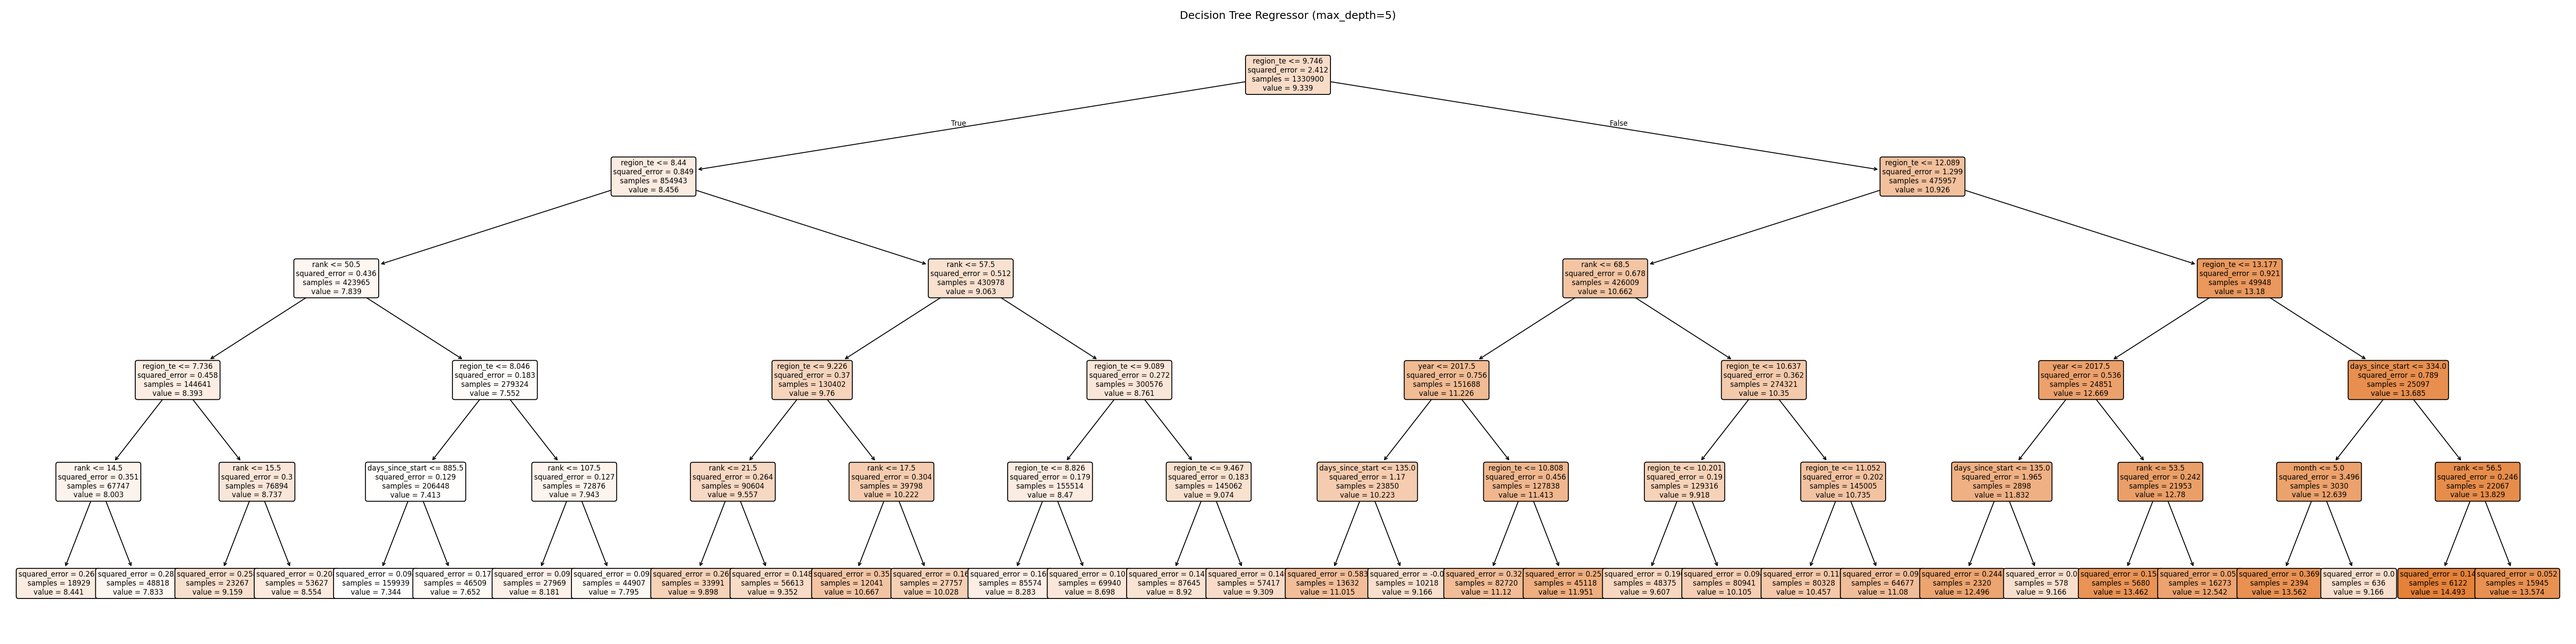
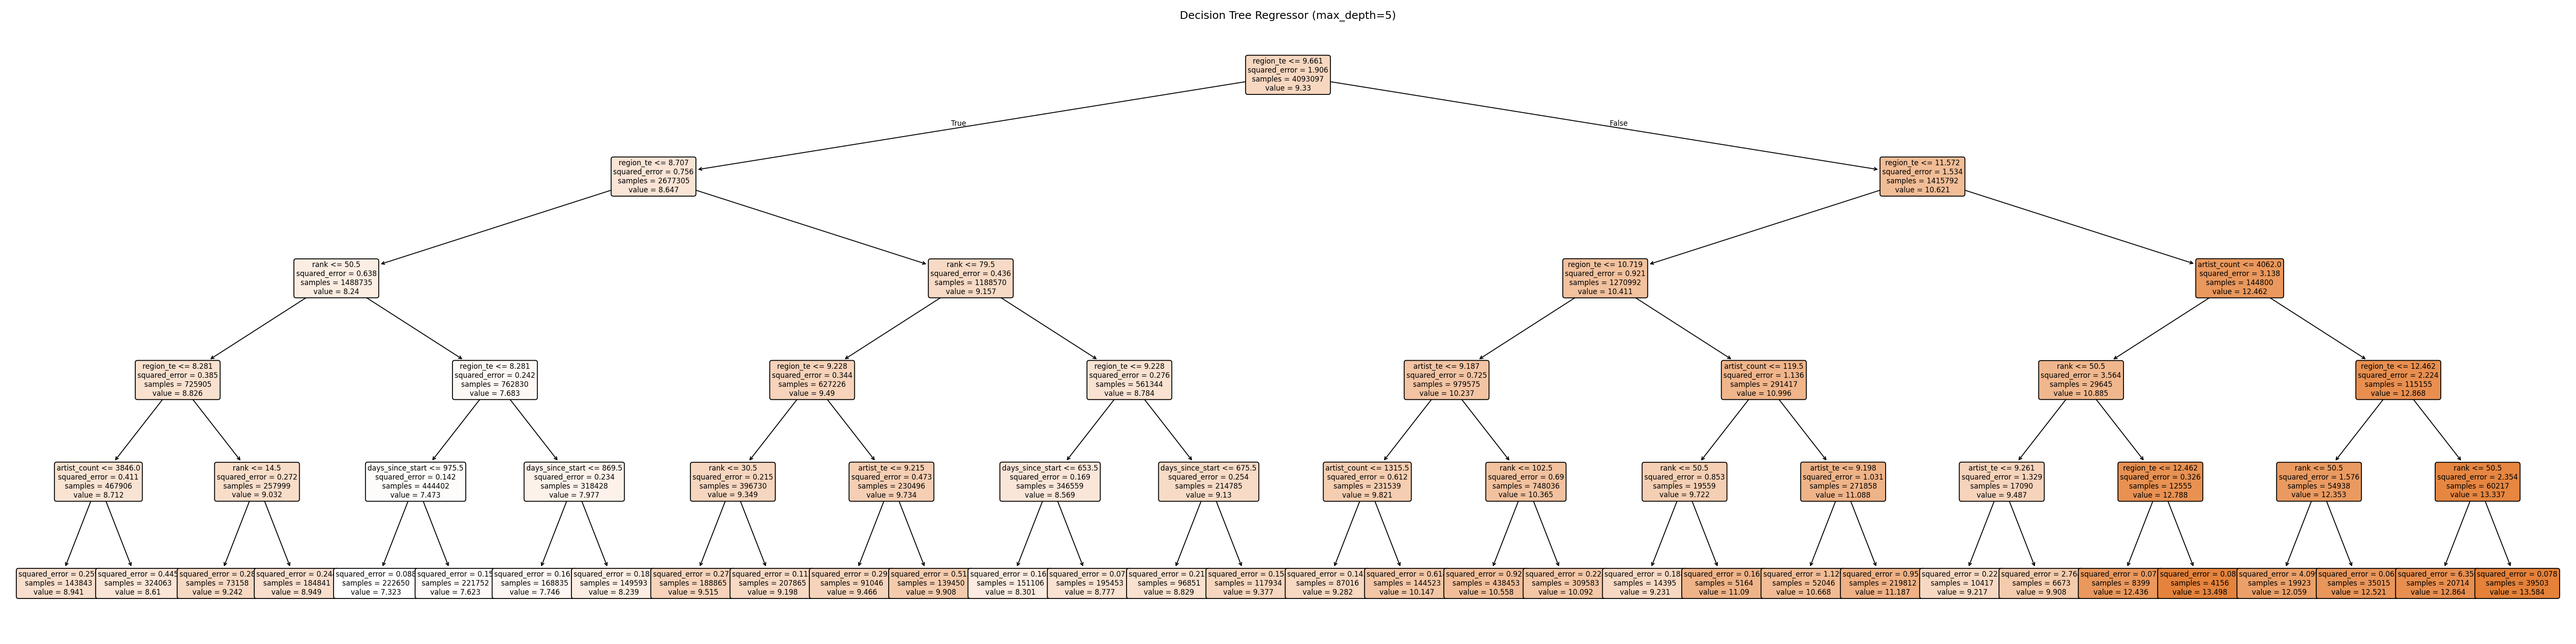
update gaussian, perceptron and adaboost

diff --git a/Classification_Experiment_4_GaussianNB.py b/Classification_Experiment_4_GaussianNB.py
@@ -4,7 +4,10 @@ import mlflow.sklearn
 from sklearn.naive_bayes import GaussianNB
 from sklearn.preprocessing import StandardScaler
 from sklearn.model_selection import GridSearchCV
-from sklearn.metrics import accuracy_score, classification_report, confusion_matrix
+from sklearn.metrics import (
+    accuracy_score, classification_report, confusion_matrix,
+    f1_score, precision_score, recall_score,
+)
 
 music = pd.read_csv("music_classification.csv", dtype={
     "rank": "int16",
@@ -22,14 +25,19 @@ music = pd.read_csv("music_classification.csv", dtype={
 
 print("music_classification.csv -> shape :", music.shape)
 
-#music = music.sample(frac=0.2, random_state=42).reset_index(drop=True)
-#print("After sampling -> shape :", music.shape)
+music = music.sample(frac=0.1, random_state=42).reset_index(drop=True)
+print("After sampling -> shape :", music.shape)
 
 train = music[music["year"] < 2021].copy()
 test  = music[music["year"] >= 2021].copy()
 
 y_train = train["is_hit"]
 y_test  = test["is_hit"]
+
+print(music["year"].value_counts().sort_index())
+print(f"\nTrain size: {len(train)} | Test size: {len(test)}")
+print(f"Train is_hit rate: {y_train.mean():.4f}")
+print(f"Test  is_hit rate: {y_test.mean():.4f}")
 
 global_mean = y_train.mean()
 
@@ -77,14 +85,25 @@ for exp in experiments:
         y_train_pred = gnb.predict(X_train_scaled)
         y_test_pred  = gnb.predict(X_test_scaled)
 
-        train_acc = accuracy_score(y_train, y_train_pred)
-        test_acc  = accuracy_score(y_test,  y_test_pred)
+        train_acc      = accuracy_score(y_train, y_train_pred)
+        test_acc       = accuracy_score(y_test,  y_test_pred)
+        test_f1        = f1_score(y_test, y_test_pred, zero_division=0)
+        test_precision = precision_score(y_test, y_test_pred, zero_division=0)
+        test_recall    = recall_score(y_test, y_test_pred, zero_division=0)
 
+        mlflow.log_metric("Accuracy",  test_acc)
+        mlflow.log_metric("F1",        test_f1)
+        mlflow.log_metric("Precision", test_precision)
+        mlflow.log_metric("Recall",    test_recall)
+        mlflow.log_metric("train_acc", train_acc)
         mlflow.log_text(classification_report(y_test, y_test_pred), "classification_report.txt")
 
         print(f"\n{exp['run_name']}")
         print(f"  Train Accuracy : {train_acc:.4f}")
         print(f"  Test  Accuracy : {test_acc:.4f}")
+        print(f"  F1             : {test_f1:.4f}")
+        print(f"  Precision      : {test_precision:.4f}")
+        print(f"  Recall         : {test_recall:.4f}")
         print("\nConfusion matrix:")
         print(confusion_matrix(y_test, y_test_pred))
         print("\nClassification report:")
@@ -101,8 +120,8 @@ grid = GridSearchCV(
     GaussianNB(),
     param_grid,
     cv=5,
-    scoring="accuracy",
-    n_jobs=-1,
+    scoring="f1",
+    n_jobs=1,
     verbose=1
 )
 
@@ -113,14 +132,25 @@ print(f"Best CV score:   {grid.best_score_:.4f}")
 
 with mlflow.start_run(run_name="GaussianNB - GridSearchCV"):
     best_model = grid.best_estimator_
-    y_pred = best_model.predict(X_test_scaled)
-    test_acc = accuracy_score(y_test, y_pred)
+    y_pred         = best_model.predict(X_test_scaled)
+    test_acc       = accuracy_score(y_test, y_pred)
+    test_f1        = f1_score(y_test, y_pred, zero_division=0)
+    test_precision = precision_score(y_test, y_pred, zero_division=0)
+    test_recall    = recall_score(y_test, y_pred, zero_division=0)
 
     mlflow.log_metric("best_cv_score", grid.best_score_)
+    mlflow.log_metric("Accuracy",      test_acc)
+    mlflow.log_metric("F1",            test_f1)
+    mlflow.log_metric("Precision",     test_precision)
+    mlflow.log_metric("Recall",        test_recall)
     mlflow.log_text(classification_report(y_test, y_pred), "classification_report.txt")
 
     print(f"\nGridSearchCV Best GaussianNB")
     print(f"  Test Accuracy : {test_acc:.4f}")
+    print(f"  F1            : {test_f1:.4f}")
+    print(f"  Precision     : {test_precision:.4f}")
+    print(f"  Recall        : {test_recall:.4f}")
+    print(f"  Best CV score : {grid.best_score_:.4f}")
     print(classification_report(y_test, y_pred))
 
 print("\nAll experiments completed!")

diff --git a/Classification_Experiment_5_Perceptron.py b/Classification_Experiment_5_Perceptron.py
@@ -3,7 +3,10 @@ import numpy as np
 import mlflow.sklearn
 from sklearn.linear_model import Perceptron
 from sklearn.preprocessing import StandardScaler
-from sklearn.metrics import accuracy_score, classification_report, confusion_matrix
+from sklearn.metrics import (
+    accuracy_score, classification_report, confusion_matrix,
+    f1_score, precision_score, recall_score,
+)
 
 music = pd.read_csv("music_classification.csv", dtype={
     "rank": "int16",
@@ -81,21 +84,30 @@ for exp in experiments:
         y_train_pred = perc.predict(X_train_scaled)
         y_test_pred  = perc.predict(X_test_scaled)
 
-        train_acc = accuracy_score(y_train, y_train_pred)
-        test_acc  = accuracy_score(y_test,  y_test_pred)
+        train_acc      = accuracy_score(y_train, y_train_pred)
+        test_acc       = accuracy_score(y_test,  y_test_pred)
+        test_f1        = f1_score(y_test, y_test_pred, zero_division=0)
+        test_precision = precision_score(y_test, y_test_pred, zero_division=0)
+        test_recall    = recall_score(y_test, y_test_pred, zero_division=0)
 
         mlflow.log_param("model",       "Perceptron")
         mlflow.log_param("max_iter",    exp["max_iter"])
         mlflow.log_param("eta0",        exp["eta0"])
         mlflow.log_param("split",       "time-based year<2021")
         mlflow.log_param("sample_frac", 0.2)
-        mlflow.log_metric("train_accuracy", train_acc)
-        mlflow.log_metric("test_accuracy",  test_acc)
+        mlflow.log_metric("Accuracy",   test_acc)
+        mlflow.log_metric("F1",         test_f1)
+        mlflow.log_metric("Precision",  test_precision)
+        mlflow.log_metric("Recall",     test_recall)
+        mlflow.log_metric("train_acc",  train_acc)
         mlflow.log_text(classification_report(y_test, y_test_pred), "classification_report.txt")
 
         print(f"\n{exp['run_name']}")
         print(f"  Train Accuracy : {train_acc:.4f}")
         print(f"  Test  Accuracy : {test_acc:.4f}")
+        print(f"  F1             : {test_f1:.4f}")
+        print(f"  Precision      : {test_precision:.4f}")
+        print(f"  Recall         : {test_recall:.4f}")
         print("\nConfusion matrix:")
         print(confusion_matrix(y_test, y_test_pred))
         print("\nClassification report:")

diff --git a/Classification_Experiment_8_AdaBoostClassifier.py b/Classification_Experiment_8_AdaBoostClassifier.py
@@ -4,7 +4,10 @@ import mlflow.sklearn
 from sklearn.ensemble import AdaBoostClassifier
 from sklearn.tree import DecisionTreeClassifier
 #from sklearn.preprocessing import StandardScaler
-from sklearn.metrics import accuracy_score, classification_report, confusion_matrix
+from sklearn.metrics import (
+    accuracy_score, classification_report, confusion_matrix,
+    f1_score, precision_score, recall_score,
+)
 
 music = pd.read_csv("music_classification.csv", dtype={
     "rank": "int16",
@@ -81,14 +84,25 @@ for exp in experiments:
         y_train_pred = ada.predict(X_train)
         y_test_pred  = ada.predict(X_test)
 
-        train_acc = accuracy_score(y_train, y_train_pred)
-        test_acc  = accuracy_score(y_test,  y_test_pred)
+        train_acc      = accuracy_score(y_train, y_train_pred)
+        test_acc       = accuracy_score(y_test,  y_test_pred)
+        test_f1        = f1_score(y_test, y_test_pred, zero_division=0)
+        test_precision = precision_score(y_test, y_test_pred, zero_division=0)
+        test_recall    = recall_score(y_test, y_test_pred, zero_division=0)
 
+        mlflow.log_metric("Accuracy",  test_acc)
+        mlflow.log_metric("F1",        test_f1)
+        mlflow.log_metric("Precision", test_precision)
+        mlflow.log_metric("Recall",    test_recall)
+        mlflow.log_metric("train_acc", train_acc)
         mlflow.log_text(classification_report(y_test, y_test_pred), "classification_report.txt")
 
         print(f"\n{exp['run_name']}")
         print(f"  Train Accuracy : {train_acc:.4f}")
         print(f"  Test  Accuracy : {test_acc:.4f}")
+        print(f"  F1             : {test_f1:.4f}")
+        print(f"  Precision      : {test_precision:.4f}")
+        print(f"  Recall         : {test_recall:.4f}")
         print("\nConfusion matrix:")
         print(confusion_matrix(y_test, y_test_pred))
         print("\nClassification report:")
